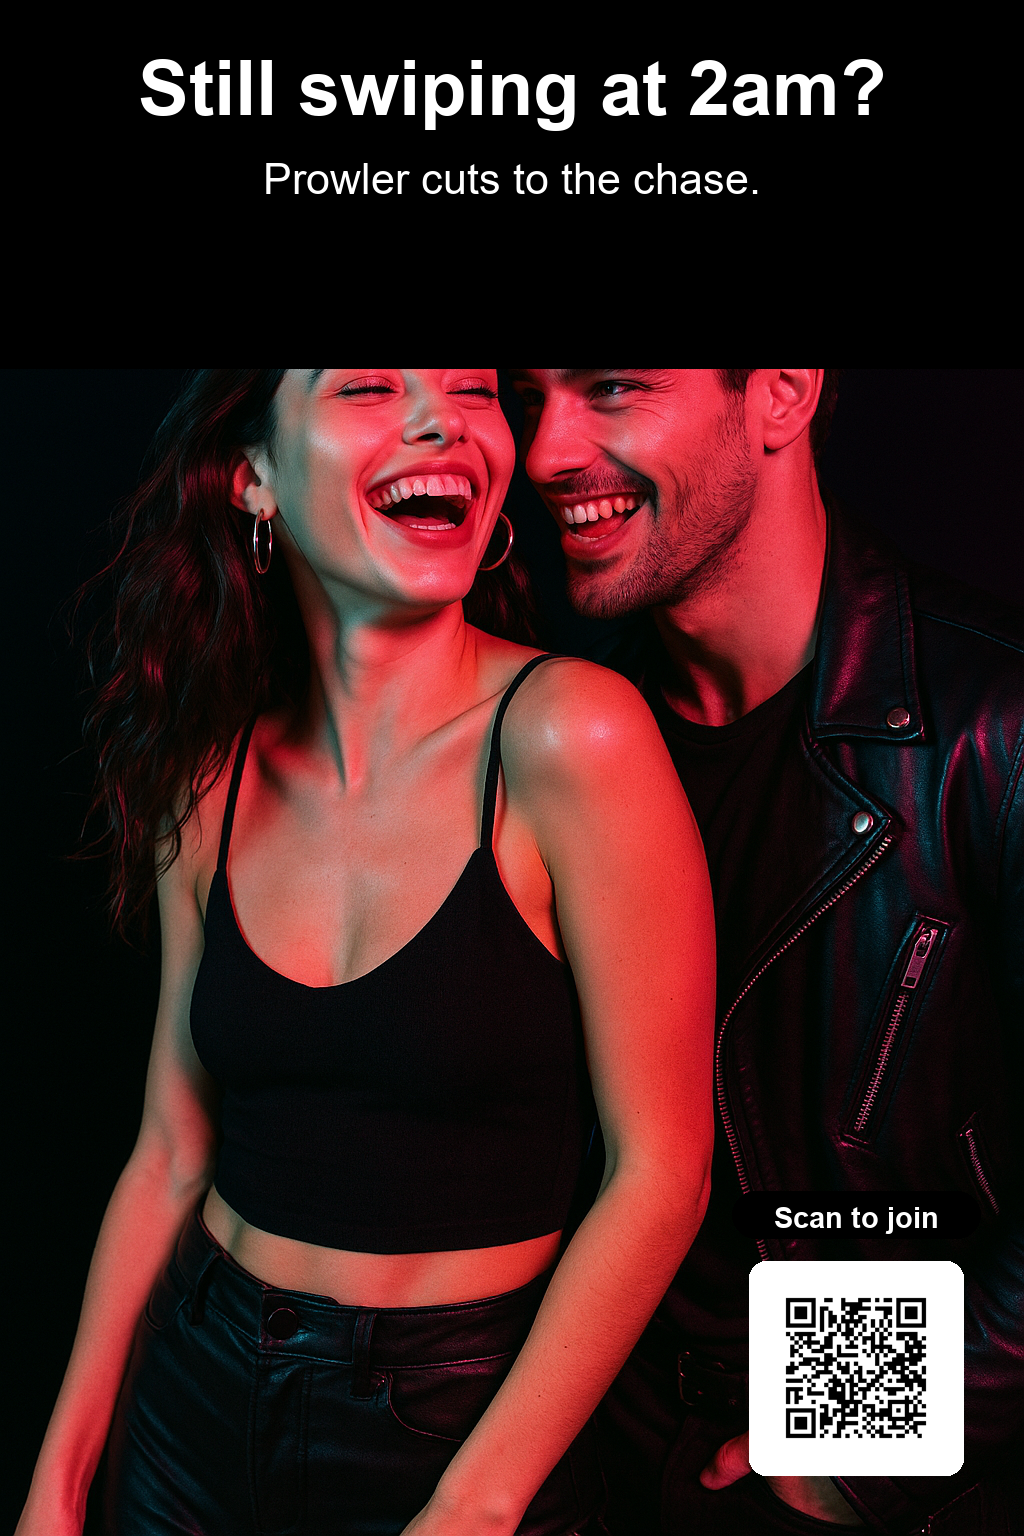
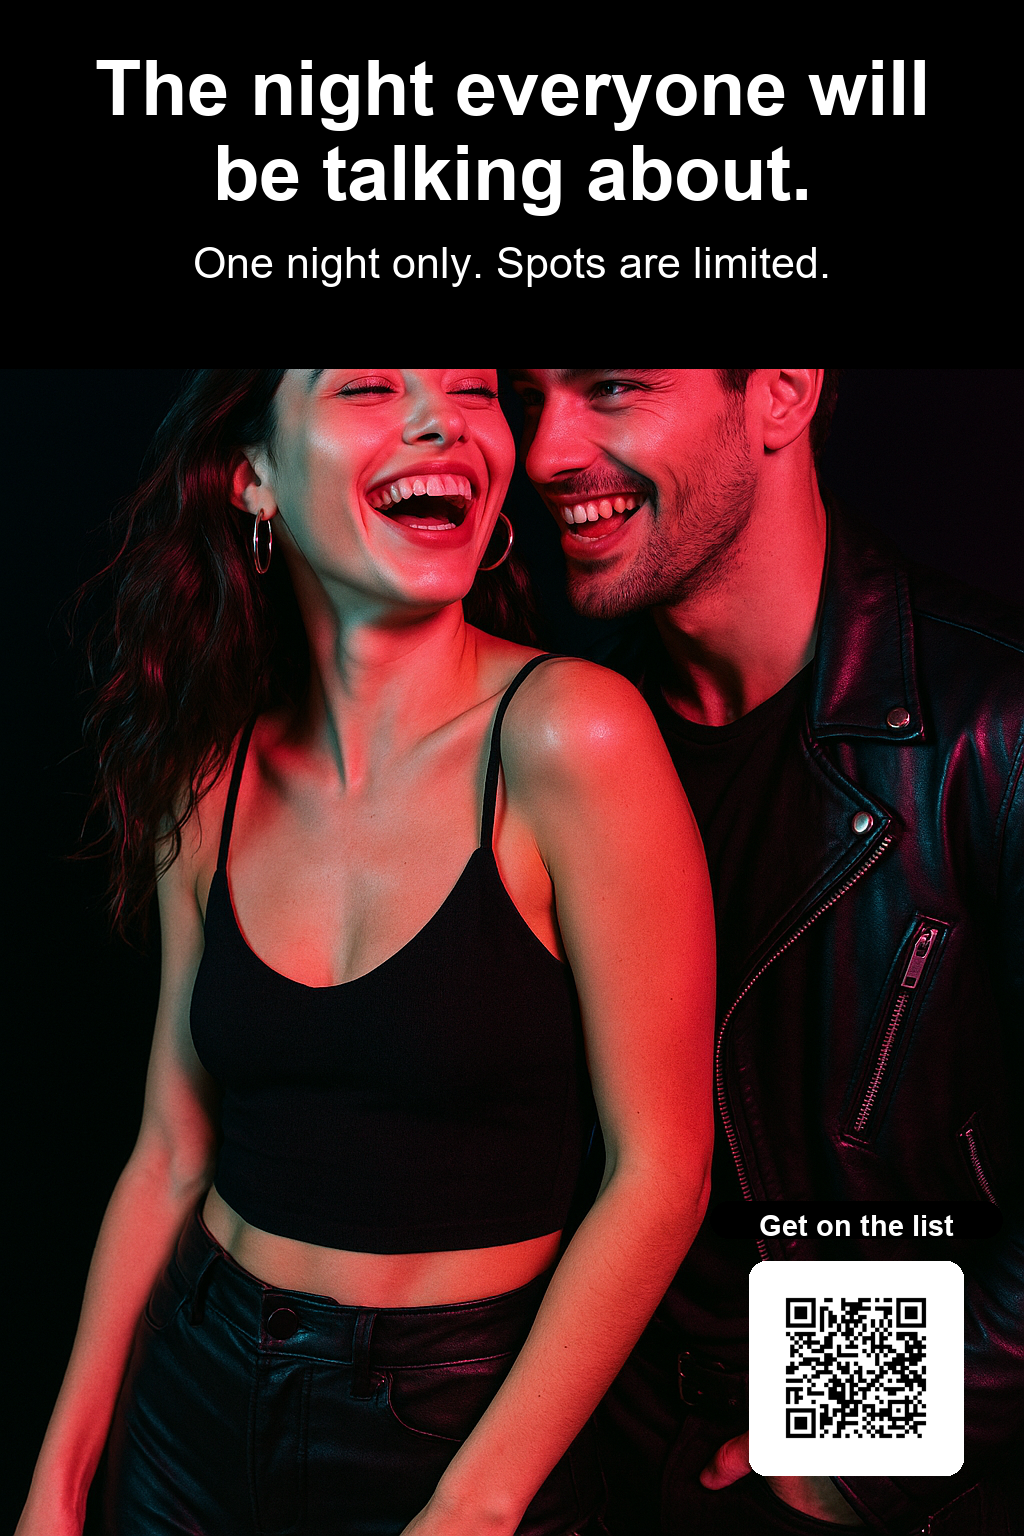
Pivot campaign content to a test event, recalibrate resolution, prep for deployment
Product direction changed: Prowler is being scrapped as this campaign's
focus (too large a build). Instead this tests purely whether ad designs
drive QR scans and where -- a fake one-night "event" (THE UNLISTED) that
never actually happens, with a self-hosted RSVP confirmation page as the
scan destination. This removes the "Prowler needs a landing page" blocker
entirely, since there's no real product to link to right now.

- genotype/catalogue.json: rewrote headline/subtext/call_to_action for all
  3 Generation 1 designs around the event concept. Posters recomposited
  (data/posters/) reusing cached backgrounds -- no new DALL-E cost.
- tracking/scan_server.py: added /rsvp (the fake confirmation page) as the
  default scan destination, replacing PROWLER_LANDING_URL with a generic
  LANDING_URL that defaults to the server's own /rsvp. Added /export
  (token-protected) to back up scan data periodically, since free-tier
  hosting can have ephemeral disk storage that resets on redeploy.
- quality/technical_checks.py: recalibrated the resolution check from 150
  DPI (close-up print) to 85 DPI, matching the real requirement --
  "clearly readable at 5-7 feet" -- rather than a stricter standard this
  project never actually needed. All 9 posters now pass Tier 1 cleanly
  (previously a3/a4 formats failed under the old standard).
- Procfile + gunicorn added to requirements.txt for deployment.

Claude-Session: https://claude.ai/code/session_01N3EkdfiWynMXfGceszm2KQ

Changed region(s): [[0.0938, 0.0312, 0.9062, 0.1875], [0.75, 0.7812, 0.9375, 0.8125]]

diff --git a/tracking/scan_server.py b/tracking/scan_server.py
@@ -7,25 +7,32 @@ phone opens a URL built by Stage 2 (tracking/qr_generator.py), of the form:
     https://<your-domain>/s/<design_id>/<location_code>
 
 This server receives that request, logs it (tracking/scans.py), and
-redirects the visitor on to Prowler's landing page or app store listing.
+redirects the visitor to a landing page.
 
-PROWLER_LANDING_URL isn't set yet, because Prowler doesn't have a landing
-page or app store listing to send people to (see CLAUDE.md's dependency
-table). Until it is, this responds with a JSON confirmation instead of a
-redirect -- so the server, the logging, and real QR codes can all be
-tested end to end right now. The moment PROWLER_LANDING_URL is set, real
-scans redirect to the real destination with no other code changes needed.
+Current campaign is a test, not a real product launch: the "event" being
+advertised isn't real (it's a placeholder used purely to see which ad
+designs get people to scan and where). So rather than depending on a real
+product landing page, this server hosts its own destination at /rsvp --
+a simple "you're on the list" confirmation page. LANDING_URL can override
+that with any other destination later (e.g. once there IS a real product
+to send people to); if unset, it defaults to this server's own /rsvp.
 
 Run locally with:
     python tracking/scan_server.py
 Then visit e.g. http://localhost:5000/s/gen1-20b2d3fc/loc001
 
-Deploy for real by pushing this repo to a host like Railway, Render, or
-Fly.io (see CLAUDE.md's Tools and Accounts Needed) and pointing
-tracking/qr_generator.py's BASE_TRACKING_URL at that host's real domain --
-QR codes already generated point at a placeholder domain and will need
-regenerating once a real one exists, since a printed QR code's URL can't
-be changed after the fact.
+Deploy for real by pushing this repo to a host like Render, Railway, or
+Fly.io and pointing tracking/qr_generator.py's BASE_TRACKING_URL at that
+host's real domain -- QR codes already generated point at a placeholder
+domain and need regenerating once a real one exists, since a printed QR
+code's URL can't be changed after the fact.
+
+/export is a lightweight backup route: free-tier hosting can have
+ephemeral disk storage that resets on redeploy, so this lets you pull a
+copy of the real scan log periodically rather than relying solely on the
+live server's disk. Protected by SCAN_EXPORT_TOKEN so a random visitor
+can't just read your data -- set that environment variable before
+deploying, and query ?token=<value> to use it.
 """
 
 import os
@@ -33,11 +40,35 @@ import sys
 from pathlib import Path
 
 sys.path.insert(0, str(Path(__file__).resolve().parent))
-from scans import record_scan  # noqa: E402
+from scans import load_scans, record_scan  # noqa: E402
 
-from flask import Flask, jsonify, redirect
+from flask import Flask, abort, jsonify, redirect, request
 
 app = Flask(__name__)
+
+RSVP_PAGE = """
+<!doctype html>
+<html>
+<head>
+<meta charset="utf-8">
+<meta name="viewport" content="width=device-width, initial-scale=1">
+<title>THE UNLISTED</title>
+<style>
+  body { background: #0a0a0a; color: #f5f5f5; font-family: -apple-system, "Segoe UI", sans-serif;
+         display: flex; align-items: center; justify-content: center; min-height: 100vh; margin: 0; padding: 24px; }
+  .card { max-width: 420px; text-align: center; }
+  h1 { font-size: 1.8rem; letter-spacing: 0.04em; margin-bottom: 0.5rem; }
+  p { color: #b5b5b5; line-height: 1.5; }
+</style>
+</head>
+<body>
+  <div class="card">
+    <h1>YOU'RE ON THE LIST</h1>
+    <p>Details go out 24 hours before. Keep an eye on your inbox.</p>
+  </div>
+</body>
+</html>
+"""
 
 
 @app.route("/")
@@ -46,27 +77,26 @@ def health_check():
     return jsonify({"status": "ok", "service": "genuance-marketing-engine scan tracker"})
 
 
+@app.route("/rsvp")
+def rsvp_page():
+    """The default scan destination -- see module docstring."""
+    return RSVP_PAGE
+
+
 @app.route("/s/<design_id>/<location_code>")
 def track_scan(design_id, location_code):
     record_scan(design_id, location_code)
+    landing_url = os.environ.get("LANDING_URL", "/rsvp")
+    return redirect(landing_url, code=302)
 
-    landing_url = os.environ.get("PROWLER_LANDING_URL")
-    if landing_url:
-        return redirect(landing_url, code=302)
 
-    return jsonify(
-        {
-            "status": "scan logged",
-            "design_id": design_id,
-            "location_code": location_code,
-            "note": (
-                "PROWLER_LANDING_URL is not set, so this scan was logged but not "
-                "redirected anywhere. Once Prowler has a landing page or app store "
-                "listing, set that environment variable and real scans will redirect "
-                "there instead of returning this message."
-            ),
-        }
-    )
+@app.route("/export")
+def export_scans():
+    token = request.args.get("token")
+    expected = os.environ.get("SCAN_EXPORT_TOKEN")
+    if not expected or token != expected:
+        abort(403)
+    return jsonify(load_scans())
 
 
 if __name__ == "__main__":

diff --git a/quality/technical_checks.py b/quality/technical_checks.py
@@ -11,16 +11,20 @@ from pathlib import Path
 import cv2
 from PIL import Image, UnidentifiedImageError
 
-# Minimum pixel dimensions per format, at 150 DPI -- a common minimum for
-# posters viewed from a short distance (not the stricter 300 DPI standard
-# for close-up print like magazines). Physical sizes are approximate,
-# since the genotype schema doesn't pin down exact mm/inch dimensions per
-# format value -- only the label.
+# Minimum pixel dimensions per format, at 85 DPI -- calibrated for the
+# real requirement (clearly readable at 5-7 feet, a lamp-post poster
+# viewing distance), not close-up print quality. Common viewing-distance
+# DPI guidelines put 5-7ft in the 70-100 DPI range; 85 is a reasonable
+# middle of that band. This replaces an earlier, stricter 150 DPI
+# (magazine/handheld distance) that this project's actual use case never
+# needed. Physical sizes are approximate, since the genotype schema
+# doesn't pin down exact mm/inch dimensions per format value -- only the
+# label.
 FORMAT_MIN_RESOLUTION = {
-    "a3_poster": (1754, 2480),  # 297x420mm
-    "a4_poster": (1240, 1754),  # 210x297mm
-    "large_sticker": (600, 900),  # approx 100x150mm
-    "small_sticker": (350, 550),  # approx 60x90mm, business-card-ish
+    "a3_poster": (995, 1403),  # 297x420mm
+    "a4_poster": (706, 995),  # 210x297mm
+    "large_sticker": (340, 510),  # approx 100x150mm
+    "small_sticker": (200, 310),  # approx 60x90mm, business-card-ish
 }
 
 
